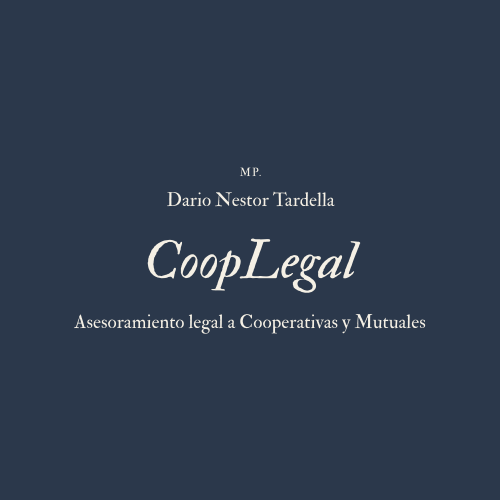
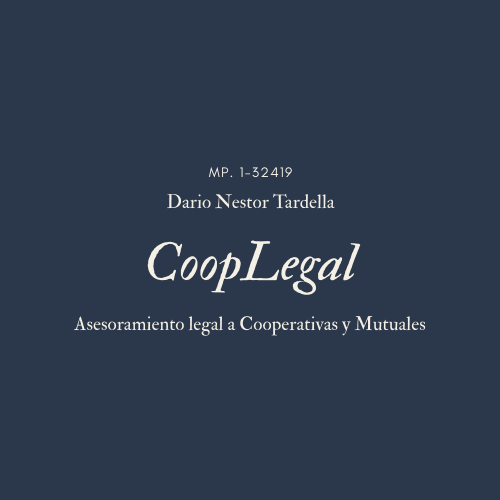
corrección nro de ley

diff --git a/PaginaPrincipal.html b/PaginaPrincipal.html
@@ -3,8 +3,8 @@
 <head>
     <meta charset="UTF-8">
     <meta name="viewport" content="width=device-width, initial-scale=1.0">
-    <title>CoopLegal - Inicio</title>
-
+    <title>CoopLegal</title>
+    <link rel="shortcut icon" href="./images/logo nav.png" />  
     <!-- Bootstrap CSS -->
     <link href="https://cdn.jsdelivr.net/npm/bootstrap@5.3.3/dist/css/bootstrap.min.css" rel="stylesheet">
     <!-- Bootstrap JS -->
@@ -12,7 +12,8 @@
     <link rel="stylesheet" href="./css/styles.css">
     <link rel="stylesheet" href="https://cdn.jsdelivr.net/npm/bootstrap-icons@1.11.3/font/bootstrap-icons.min.css">
     <link href="https://fonts.googleapis.com/css2?family=Lora:ital,wght@0,400..700;1,400..700&family=Parisienne&family=Poppins:ital,wght@0,100;0,200;0,300;0,400;0,500;0,600;0,700;0,800;0,900;1,100;1,200;1,300;1,400;1,500;1,600;1,700;1,800;1,900&display=swap" rel="stylesheet">
-</head>
+    <meta name="description" content="">
+`</head>
 <body>
     <a href="https://wa.me/543516741687" target="_blank" class="whatsapp-float">
     <img src="./images/whatsapp2.png" alt="WhatsApp" />
@@ -34,14 +35,14 @@
             <div class="collapse navbar-collapse" id="navbarNav">
                 <ul class="navbar-nav ms-auto">
                     <li class="nav-item">
-                        <a class="nav-link" aria-current="page" href="#">Inicio</a>
+                        <a class="nav-link" aria-current="page" href="">Inicio</a>
                     </li>
                     
                     <li class="nav-item">
-                        <a class="nav-link" href="#servicios">Servicios</a>
+                        <a class="nav-link" href="#Servicios">Servicios</a>
                     </li>
                     <li class="nav-item">
-                        <a class="nav-link" aria-current="page" href="#">¿Quienes somos?</a>
+                        <a class="nav-link" aria-current="page" href="#QuienesSomos">¿Quienes somos?</a>
                     </li>
                     <li class="nav-item">
                         <a class="nav-link" href="#Contacto">Contacto</a>
@@ -53,7 +54,7 @@
    
 
 
-  <div class="contenedor--2">
+  <div class="contenedor--2" id="Inicio">
     <h1>En <span class="marca">CoopLegal</span> atendemos tus consultas</h1>
     <p>
         Nos dedicamos íntegramente a resolver problemas y consultas legales. 
@@ -92,7 +93,7 @@
     </div>
 </div>
 
-<div class="contenedor--3" id="servicios">
+<div class="contenedor--3" id="Servicios">
     <h1>Servicios</h1>
 
     <div class="servicio">
@@ -123,7 +124,7 @@
     <div class="servicio">
         <i class="bi bi-file-earmark-text-fill icono-servicio"></i>
         <div class="texto">
-            <h2>Ley 24777</h2>
+            <h2>Ley 20.337</h2>
             <p>
                 Lorem ipsum dolor sit amet, consectetur adipiscing elit. Proin 
                 pharetra nunc ac neque porta, sed bibendum leo cursus. Praesent 
@@ -133,14 +134,14 @@
     </div>
 </div>
 
-<div class="contenedor--5 ">
+<div class="contenedor--5 " id="QuienesSomos">
     <div class="banner1">
-        <h2>¿Quienes somos?</h2>
-        <p>Con mas de 20 años de experiencia en el rubro aretra nunc ac neque porta, sed bibe rumus cumus lumus que con mi bubus</p>
+        <h2><span class="resaltado">¿Quienes somos?</span></h2>
+        <p><span class="resaltado">Con mas de 20 años de experiencia en el rubro aretra nunc ac neque  ra nuncxercitationem vitae quo quae animi blanditiis amet eveniet vero earum architecto! ra nunc ac neque  porta, sed bibe rumus neque porta, sed bibe rumu neque porta, sed bibe rumu cumus lumus que con mi bogus</p></span>
     </div>
 </div>
 
-<div class="contenedor--4" id="Contacto">
+<div class="contenedor--4" id="Contacto" >
     <div class="footer-left">
         <img src="./images/Footer.png" alt="Logo CoopLegal">
     </div>
@@ -154,7 +155,6 @@
         </p>
     </div>
 </div>
-
 
 
 </body>

diff --git a/index.html b/index.html
@@ -7,7 +7,7 @@
     <link rel="stylesheet" href="./css/styles.css">
     <link rel="preconnect" href="https://fonts.googleapis.com">
     <link rel="preconnect" href="https://fonts.gstatic.com" crossorigin>
-    
+    <link rel="shortcut icon" href="./images/logo nav.png" />    
    <link href="https://fonts.googleapis.com/css2?family=Lora:ital,wght@0,400..700;1,400..700&family=Poppins:ital,wght@0,100;0,200;0,300;0,400;0,500;0,600;0,700;0,800;0,900;1,100;1,200;1,300;1,400;1,500;1,600;1,700;1,800;1,900&display=swap" rel="stylesheet">
     <link rel="stylesheet" href="https://cdn.jsdelivr.net/npm/bootstrap-icons@1.11.3/font/bootstrap-icons.min.css">
 </head>
@@ -15,7 +15,7 @@
 
     <div class="contenedor">
         <div class="contenedor--left">
-            <h1>Asesoramiento legal a Cooperativas y mutuales</h1>
+            <h1>Asesoramiento Legal a Cooperativas y Mutuales</h1>
             <p>
                Brindamos apoyo legal especializado para cooperativas y mutuales, ayudándote a cumplir con la normativa vigente, optimizar procesos internos y proteger los derechos de tu organización. <br>
                Nuestro enfoque es práctico, cercano y orientado a las personas.

diff --git a/css/styles.css b/css/styles.css
@@ -318,6 +318,7 @@ div.container-fluid{
     background: url(../images/socios2.png) no-repeat center center; /* centra la imagen y evita que se repita */
     background-size: cover; /* ajusta la imagen para cubrir todo el contenedor */
      background-attachment: fixed; /* hace que la imagen quede fija al hacer scroll */
+     color: #2b384b;
      
      
 }
